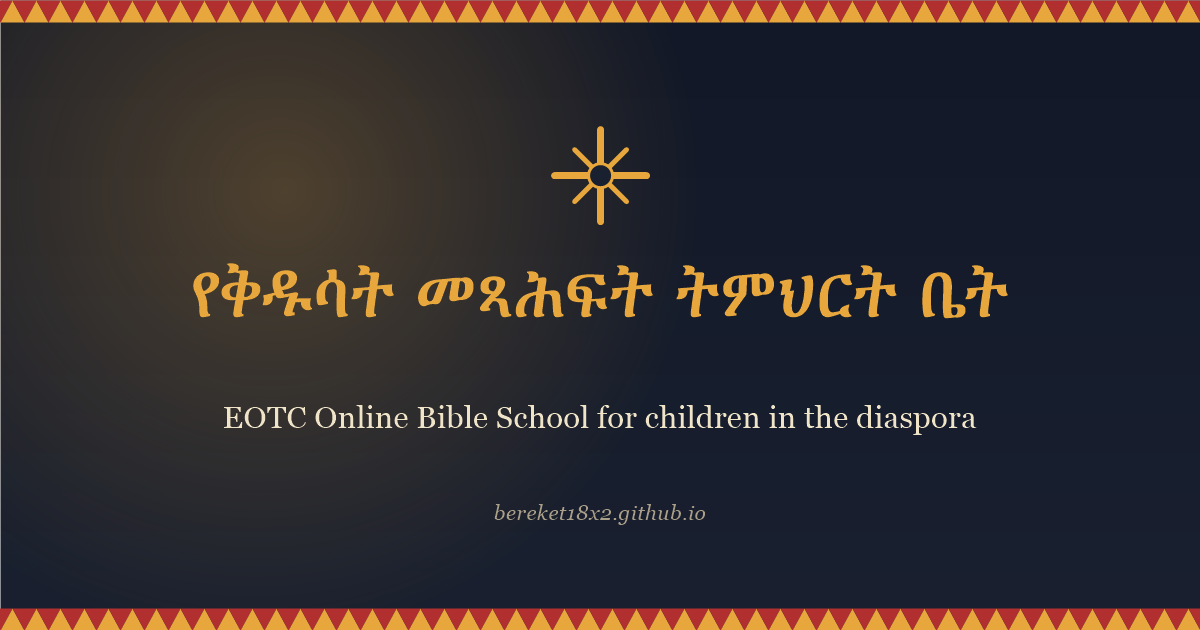
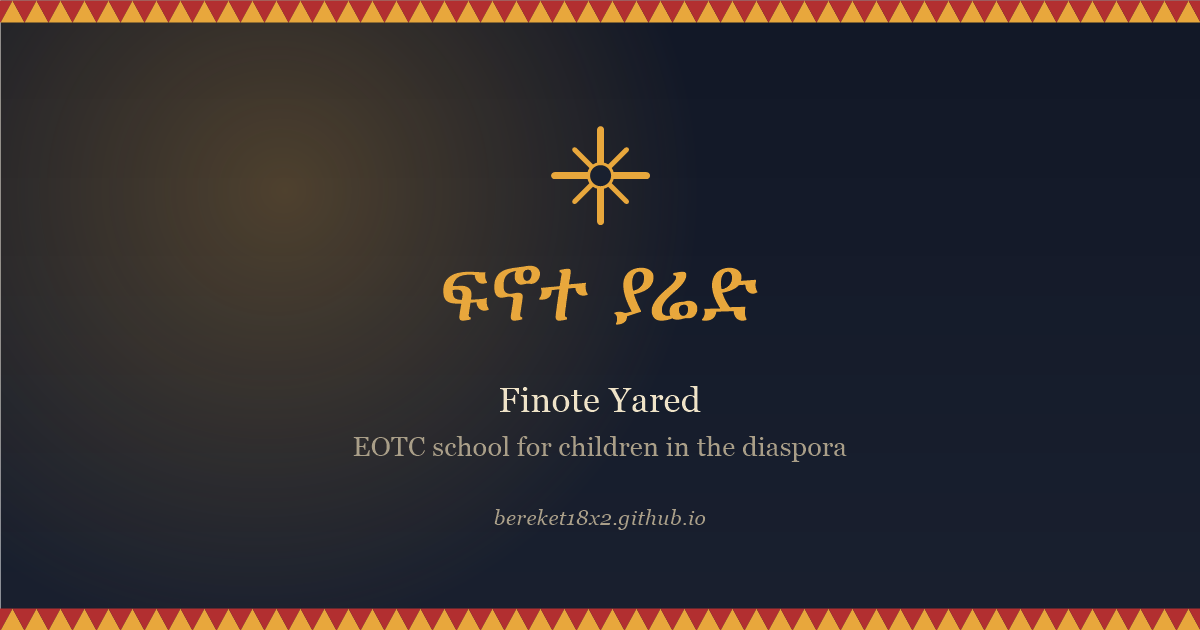
Name the school ፍኖተ ያሬድ, not by its Bible track
የቅዱሳት መጻሕፍት ትምህርት ቤት names one of two tracks. Using it as the school
name erased the Zema school from every title, nav brand, footer and
share card. The school is ፍኖተ ያሬድ — Finote Yared, the path of Yared —
which is also why the Zema track belongs under it rather than beside it.

- CLAUDE.md gains a Naming section: ፍ not ፊ, never ፊኖተ, and the track
  name is not the school name. Also records why the GitHub repo is
  bereket18x2.github.io rather than finote-yared (a user-page repo must
  carry that exact name to serve from the root URL), and corrects the
  Live/Repo lines, which still pointed at a /finote-yared/ path that 404s.
- 33 occurrences renamed across 11 files. The replace was safe because
  the school name always carries ቤት and the Bible-track label never
  does, so TRACKS.bible.am and the homepage track panel are untouched.
- English strings the Amharic pass could not reach: the site no longer
  calls itself an "Online Bible School", which described half of it.
- assets/og.png regenerated — the old name was rendered into the pixels.
  tools/make-og.ps1 now keeps that reproducible instead of ad hoc.
- CLAUDE.md records the tools/ npm exception and that the consent
  mechanism has not been legally reviewed and must be before launch.
- .gitignore excludes tools/node_modules and any service account key,
  which grants full read/write past the security rules.

Changed region(s): [[0.1542, 0.4222, 0.8633, 0.5127], [0.185, 0.6032, 0.8325, 0.7238], [0.4008, 0.7841, 0.5858, 0.8444]]

diff --git a/index.html b/index.html
@@ -3,8 +3,8 @@
 <head>
 <meta charset="utf-8">
 <meta name="viewport" content="width=device-width, initial-scale=1">
-<title>የቅዱሳት መጻሕፍት ትምህርት ቤት — EOTC Online Bible School</title>
-<meta name="description" content="Amharic-language Orthodox Tewahedo Bible school for children in the diaspora. Video lessons, quizzes, and study tracking.">
+<title>ፍኖተ ያሬድ · Finote Yared — EOTC school for children in the diaspora</title>
+<meta name="description" content="Amharic-language Ethiopian Orthodox Tewahedo school for children in the diaspora. Two tracks — Bible study and Zema chant — with video lessons, quizzes, and study tracking.">
 <script>
   try {
     var t = localStorage.getItem('eotc.theme');
@@ -18,15 +18,15 @@
 <link rel="stylesheet" href="assets/css/style.css">
 <link rel="icon" type="image/svg+xml" href="assets/favicon.svg">
 <link rel="shortcut icon" href="assets/favicon.svg">
-<meta property="og:title" content="የቅዱሳት መጻሕፍት ትምህርት ቤት — EOTC Online Bible School">
-<meta property="og:description" content="Amharic-language Orthodox Tewahedo Bible school for children in the diaspora. Video lessons, quizzes, and study tracking.">
+<meta property="og:title" content="ፍኖተ ያሬድ · Finote Yared — EOTC school for children in the diaspora">
+<meta property="og:description" content="Amharic-language Ethiopian Orthodox Tewahedo school for children in the diaspora. Two tracks — Bible study and Zema chant — with video lessons, quizzes, and study tracking.">
 <meta property="og:image" content="https://bereket18x2.github.io/assets/og.png">
 <meta property="og:url" content="https://bereket18x2.github.io/">
 <meta property="og:type" content="website">
 <meta property="og:locale" content="am_ET">
 <meta name="twitter:card" content="summary_large_image">
-<meta name="twitter:title" content="የቅዱሳት መጻሕፍት ትምህርት ቤት — EOTC Online Bible School">
-<meta name="twitter:description" content="Amharic-language Orthodox Tewahedo Bible school for children in the diaspora. Video lessons, quizzes, and study tracking.">
+<meta name="twitter:title" content="ፍኖተ ያሬድ · Finote Yared — EOTC school for children in the diaspora">
+<meta name="twitter:description" content="Amharic-language Ethiopian Orthodox Tewahedo school for children in the diaspora. Two tracks — Bible study and Zema chant — with video lessons, quizzes, and study tracking.">
 <meta name="twitter:image" content="https://bereket18x2.github.io/assets/og.png">
 <script type="importmap">
 {
@@ -52,7 +52,7 @@
       <svg width="22" height="22" viewBox="0 0 24 24" fill="none" stroke="currentColor" stroke-width="1.6" stroke-linecap="round">
         <path d="M12 2v20M2 12h20M7 7l10 10M17 7L7 17"/><circle cx="12" cy="12" r="3.2"/>
       </svg>
-      የቅዱሳት መጻሕፍት ትምህርት ቤት
+      ፍኖተ ያሬድ
     </a>
     <div class="nav-links">
       <a href="index.html" aria-current="page" data-am="መነሻ" data-en="Home">መነሻ</a>
@@ -244,7 +244,7 @@
 <div class="harag harag--thin"></div>
 <footer class="footer">
   <div class="shell between">
-    <span>የቅዱሳት መጻሕፍት ትምህርት ቤት · TewahedoDevs</span>
+    <span>ፍኖተ ያሬድ · TewahedoDevs</span>
     <span class="small" data-am="ለጥያቄ፡ info@example.org" data-en="Questions: info@example.org">ለጥያቄ፡ info@example.org</span>
   </div>
 </footer>

diff --git a/billing.html b/billing.html
@@ -3,7 +3,7 @@
 <head>
 <meta charset="utf-8">
 <meta name="viewport" content="width=device-width, initial-scale=1">
-<title>ክፍያ — የቅዱሳት መጻሕፍት ትምህርት ቤት</title>
+<title>ክፍያ — ፍኖተ ያሬድ</title>
 <script>
   try {
     var t = localStorage.getItem('eotc.theme');
@@ -16,14 +16,14 @@
 <link rel="stylesheet" href="assets/css/style.css">
 <link rel="icon" type="image/svg+xml" href="assets/favicon.svg">
 <link rel="shortcut icon" href="assets/favicon.svg">
-<meta property="og:title" content="ክፍያ — የቅዱሳት መጻሕፍት ትምህርት ቤት">
+<meta property="og:title" content="ክፍያ — ፍኖተ ያሬድ">
 <meta property="og:description" content="ወርኃዊ ክፍያ በVisa፣ Mastercard እና American Express — ደህንነቱ በተጠበቀ በStripe አማካኝነት።">
 <meta property="og:image" content="https://bereket18x2.github.io/assets/og.png">
 <meta property="og:url" content="https://bereket18x2.github.io/billing.html">
 <meta property="og:type" content="website">
 <meta property="og:locale" content="am_ET">
 <meta name="twitter:card" content="summary_large_image">
-<meta name="twitter:title" content="ክፍያ — የቅዱሳት መጻሕፍት ትምህርት ቤት">
+<meta name="twitter:title" content="ክፍያ — ፍኖተ ያሬድ">
 <meta name="twitter:description" content="ወርኃዊ ክፍያ በVisa፣ Mastercard እና American Express — ደህንነቱ በተጠበቀ በStripe አማካኝነት።">
 <meta name="twitter:image" content="https://bereket18x2.github.io/assets/og.png">
 <script type="importmap">
@@ -49,7 +49,7 @@
       <svg width="22" height="22" viewBox="0 0 24 24" fill="none" stroke="currentColor" stroke-width="1.6" stroke-linecap="round">
         <path d="M12 2v20M2 12h20M7 7l10 10M17 7L7 17"/><circle cx="12" cy="12" r="3.2"/>
       </svg>
-      የቅዱሳት መጻሕፍት ትምህርት ቤት
+      ፍኖተ ያሬድ
     </a>
     <div class="nav-links">
       <a href="dashboard.html">ትምህርቶች</a>
@@ -253,7 +253,7 @@
 <div class="harag harag--thin"></div>
 <footer class="footer">
   <div class="shell between">
-    <span>የቅዱሳት መጻሕፍት ትምህርት ቤት · TewahedoDevs</span>
+    <span>ፍኖተ ያሬድ · TewahedoDevs</span>
     <span class="small">ለጥያቄ፡ info@example.org</span>
   </div>
 </footer>

diff --git a/register.html b/register.html
@@ -3,7 +3,7 @@
 <head>
 <meta charset="utf-8">
 <meta name="viewport" content="width=device-width, initial-scale=1">
-<title>ምዝገባ — የቅዱሳት መጻሕፍት ትምህርት ቤት</title>
+<title>ምዝገባ — ፍኖተ ያሬድ</title>
 <script>
   try {
     var t = localStorage.getItem('eotc.theme');
@@ -16,14 +16,14 @@
 <link rel="stylesheet" href="assets/css/style.css">
 <link rel="icon" type="image/svg+xml" href="assets/favicon.svg">
 <link rel="shortcut icon" href="assets/favicon.svg">
-<meta property="og:title" content="ምዝገባ — የቅዱሳት መጻሕፍት ትምህርት ቤት">
+<meta property="og:title" content="ምዝገባ — ፍኖተ ያሬድ">
 <meta property="og:description" content="ወላጅ መለያ ይክፈታሉ፤ የተማሪው መረጃ በዚሁ መለያ ሥር ይመዘገባል። የቅዱሳት መጻሕፍት ትምህርት ወይም የዜማ ትምህርት ቤት።">
 <meta property="og:image" content="https://bereket18x2.github.io/assets/og.png">
 <meta property="og:url" content="https://bereket18x2.github.io/register.html">
 <meta property="og:type" content="website">
 <meta property="og:locale" content="am_ET">
 <meta name="twitter:card" content="summary_large_image">
-<meta name="twitter:title" content="ምዝገባ — የቅዱሳት መጻሕፍት ትምህርት ቤት">
+<meta name="twitter:title" content="ምዝገባ — ፍኖተ ያሬድ">
 <meta name="twitter:description" content="ወላጅ መለያ ይክፈታሉ፤ የተማሪው መረጃ በዚሁ መለያ ሥር ይመዘገባል።">
 <meta name="twitter:image" content="https://bereket18x2.github.io/assets/og.png">
 <script type="importmap">
@@ -49,7 +49,7 @@
       <svg width="22" height="22" viewBox="0 0 24 24" fill="none" stroke="currentColor" stroke-width="1.6" stroke-linecap="round">
         <path d="M12 2v20M2 12h20M7 7l10 10M17 7L7 17"/><circle cx="12" cy="12" r="3.2"/>
       </svg>
-      የቅዱሳት መጻሕፍት ትምህርት ቤት
+      ፍኖተ ያሬድ
     </a>
     <div class="nav-links">
       <a href="index.html#signin" data-am="አስቀድመው ተመዝግበዋል? ግባ" data-en="Already registered? Sign in">አስቀድመው ተመዝግበዋል? ግባ</a>

diff --git a/dashboard.html b/dashboard.html
@@ -3,7 +3,7 @@
 <head>
 <meta charset="utf-8">
 <meta name="viewport" content="width=device-width, initial-scale=1">
-<title>ትምህርቶች — የቅዱሳት መጻሕፍት ትምህርት ቤት</title>
+<title>ትምህርቶች — ፍኖተ ያሬድ</title>
 <script>
   try {
     var t = localStorage.getItem('eotc.theme');
@@ -16,14 +16,14 @@
 <link rel="stylesheet" href="assets/css/style.css">
 <link rel="icon" type="image/svg+xml" href="assets/favicon.svg">
 <link rel="shortcut icon" href="assets/favicon.svg">
-<meta property="og:title" content="ትምህርቶች — የቅዱሳት መጻሕፍት ትምህርት ቤት">
+<meta property="og:title" content="ትምህርቶች — ፍኖተ ያሬድ">
 <meta property="og:description" content="የቪዲዮ ትምህርቶች፣ ጥያቄዎችና የጥናት ሰዓት ክትትል ለተማሪዎች።">
 <meta property="og:image" content="https://bereket18x2.github.io/assets/og.png">
 <meta property="og:url" content="https://bereket18x2.github.io/dashboard.html">
 <meta property="og:type" content="website">
 <meta property="og:locale" content="am_ET">
 <meta name="twitter:card" content="summary_large_image">
-<meta name="twitter:title" content="ትምህርቶች — የቅዱሳት መጻሕፍት ትምህርት ቤት">
+<meta name="twitter:title" content="ትምህርቶች — ፍኖተ ያሬድ">
 <meta name="twitter:description" content="የቪዲዮ ትምህርቶች፣ ጥያቄዎችና የጥናት ሰዓት ክትትል ለተማሪዎች።">
 <meta name="twitter:image" content="https://bereket18x2.github.io/assets/og.png">
 <script type="importmap">
@@ -49,7 +49,7 @@
       <svg width="22" height="22" viewBox="0 0 24 24" fill="none" stroke="currentColor" stroke-width="1.6" stroke-linecap="round">
         <path d="M12 2v20M2 12h20M7 7l10 10M17 7L7 17"/><circle cx="12" cy="12" r="3.2"/>
       </svg>
-      የቅዱሳት መጻሕፍት ትምህርት ቤት
+      ፍኖተ ያሬድ
     </a>
     <div class="nav-links">
       <a href="dashboard.html" aria-current="page">ትምህርቶች</a>

diff --git a/admin.html b/admin.html
@@ -3,7 +3,7 @@
 <head>
 <meta charset="utf-8">
 <meta name="viewport" content="width=device-width, initial-scale=1">
-<title>አስተዳደር — የቅዱሳት መጻሕፍት ትምህርት ቤት</title>
+<title>አስተዳደር — ፍኖተ ያሬድ</title>
 <script>
   try {
     var t = localStorage.getItem('eotc.theme');
@@ -16,14 +16,14 @@
 <link rel="stylesheet" href="assets/css/style.css">
 <link rel="icon" type="image/svg+xml" href="assets/favicon.svg">
 <link rel="shortcut icon" href="assets/favicon.svg">
-<meta property="og:title" content="አስተዳደር — የቅዱሳት መጻሕፍት ትምህርት ቤት">
+<meta property="og:title" content="አስተዳደር — ፍኖተ ያሬድ">
 <meta property="og:description" content="የተማሪዎች ሪፖርት፡ የጥናት ሰዓት፣ ውጤትና እንቅስቃሴ።">
 <meta property="og:image" content="https://bereket18x2.github.io/assets/og.png">
 <meta property="og:url" content="https://bereket18x2.github.io/admin.html">
 <meta property="og:type" content="website">
 <meta property="og:locale" content="am_ET">
 <meta name="twitter:card" content="summary_large_image">
-<meta name="twitter:title" content="አስተዳደር — የቅዱሳት መጻሕፍት ትምህርት ቤት">
+<meta name="twitter:title" content="አስተዳደር — ፍኖተ ያሬድ">
 <meta name="twitter:description" content="የተማሪዎች ሪፖርት፡ የጥናት ሰዓት፣ ውጤትና እንቅስቃሴ።">
 <meta name="twitter:image" content="https://bereket18x2.github.io/assets/og.png">
 <script type="importmap">
@@ -49,7 +49,7 @@
       <svg width="22" height="22" viewBox="0 0 24 24" fill="none" stroke="currentColor" stroke-width="1.6" stroke-linecap="round">
         <path d="M12 2v20M2 12h20M7 7l10 10M17 7L7 17"/><circle cx="12" cy="12" r="3.2"/>
       </svg>
-      የቅዱሳት መጻሕፍት ትምህርት ቤት
+      ፍኖተ ያሬድ
     </a>
     <div class="nav-links">
       <a href="dashboard.html">ትምህርቶች</a>

diff --git a/lesson.html b/lesson.html
@@ -3,7 +3,7 @@
 <head>
 <meta charset="utf-8">
 <meta name="viewport" content="width=device-width, initial-scale=1">
-<title>ትምህርት — የቅዱሳት መጻሕፍት ትምህርት ቤት</title>
+<title>ትምህርት — ፍኖተ ያሬድ</title>
 <script>
   // before the stylesheet, so the page never paints the wrong theme first
   try {
@@ -17,14 +17,14 @@
 <link rel="stylesheet" href="assets/css/style.css">
 <link rel="icon" type="image/svg+xml" href="assets/favicon.svg">
 <link rel="shortcut icon" href="assets/favicon.svg">
-<meta property="og:title" content="ትምህርት — የቅዱሳት መጻሕፍት ትምህርት ቤት">
+<meta property="og:title" content="ትምህርት — ፍኖተ ያሬድ">
 <meta property="og:description" content="ቪዲዮ ትምህርትና ጥያቄዎች ለልጆች በአማርኛ።">
 <meta property="og:image" content="https://bereket18x2.github.io/assets/og.png">
 <meta property="og:url" content="https://bereket18x2.github.io/lesson.html">
 <meta property="og:type" content="website">
 <meta property="og:locale" content="am_ET">
 <meta name="twitter:card" content="summary_large_image">
-<meta name="twitter:title" content="ትምህርት — የቅዱሳት መጻሕፍት ትምህርት ቤት">
+<meta name="twitter:title" content="ትምህርት — ፍኖተ ያሬድ">
 <meta name="twitter:description" content="ቪዲዮ ትምህርትና ጥያቄዎች ለልጆች በአማርኛ።">
 <meta name="twitter:image" content="https://bereket18x2.github.io/assets/og.png">
 <script type="importmap">
@@ -49,7 +49,7 @@
       <svg width="22" height="22" viewBox="0 0 24 24" fill="none" stroke="currentColor" stroke-width="1.6" stroke-linecap="round">
         <path d="M12 2v20M2 12h20M7 7l10 10M17 7L7 17"/><circle cx="12" cy="12" r="3.2"/>
       </svg>
-      የቅዱሳት መጻሕፍት ትምህርት ቤት
+      ፍኖተ ያሬድ
     </a>
     <div class="nav-links">
       <a href="dashboard.html">← ወደ ትምህርቶች</a>

diff --git a/login.html b/login.html
@@ -3,7 +3,7 @@
 <head>
 <meta charset="utf-8">
 <meta name="viewport" content="width=device-width, initial-scale=1">
-<title>ግባ — የቅዱሳት መጻሕፍት ትምህርት ቤት</title>
+<title>ግባ — ፍኖተ ያሬድ</title>
 <meta http-equiv="refresh" content="0; url=index.html#signin">
 <link rel="canonical" href="index.html#signin">
 <script>
@@ -18,14 +18,14 @@
 <link rel="stylesheet" href="assets/css/style.css">
 <link rel="icon" type="image/svg+xml" href="assets/favicon.svg">
 <link rel="shortcut icon" href="assets/favicon.svg">
-<meta property="og:title" content="ግባ — የቅዱሳት መጻሕፍት ትምህርት ቤት">
+<meta property="og:title" content="ግባ — ፍኖተ ያሬድ">
 <meta property="og:description" content="ወደ የተማሪ መለያዎ ይግቡ።">
 <meta property="og:image" content="https://bereket18x2.github.io/assets/og.png">
 <meta property="og:url" content="https://bereket18x2.github.io/login.html">
 <meta property="og:type" content="website">
 <meta property="og:locale" content="am_ET">
 <meta name="twitter:card" content="summary_large_image">
-<meta name="twitter:title" content="ግባ — የቅዱሳት መጻሕፍት ትምህርት ቤት">
+<meta name="twitter:title" content="ግባ — ፍኖተ ያሬድ">
 <meta name="twitter:description" content="ወደ የተማሪ መለያዎ ይግቡ።">
 <meta name="twitter:image" content="https://bereket18x2.github.io/assets/og.png">
 <script type="importmap">

diff --git a/assets/js/config.js b/assets/js/config.js
@@ -32,7 +32,7 @@ export const PRICE_USD = 25;
    directly. One constant, so changing the number or the address is one
    edit rather than a search across every page. */
 export const CHURCH_CONTACT = {
-  name: 'የቅዱሳት መጻሕፍት ትምህርት ቤት · TewahedoDevs',
+  name: 'ፍኖተ ያሬድ · TewahedoDevs',
   email: 'info@example.org',
   phone: '+1 (000) 000-0000'
 };

diff --git a/CLAUDE.md b/CLAUDE.md
@@ -13,14 +13,33 @@ children in the US diaspora. Two tracks:
    ድጓ / ጾመ ድጓ / ምዕራፍ / ዝማሬ / መዋሥዕት / ቅዳሴ, with St. Yared's three modes
    (ግዕዝ, ዕዝል, አራራይ) and አቋቋም.
 
-Live: `https://bereket18x2.github.io/finote-yared/`
-Repo: `Bereket18x2/finote-yared`
+Live: `https://bereket18x2.github.io/`
+Repo: `Bereket18x2/bereket18x2.github.io` (named for the root URL — see Naming)
 Firebase project: `finote-yared` (Spark plan, Firestore in nam5)
+
+## Naming
+
+The school is ፍኖተ ያሬድ — "the path of Yared." Note ፍ, not ፊ.
+English: Finote Yared. Repo, domain, and Firebase project use
+finote-yared / finoteyared. Never write ፊኖተ.
+
+የቅዱሳት መጻሕፍት ትምህርት ቤት names the Bible TRACK only, not the school.
+The school also runs the Zema track. Do not use it as the school name.
+
+One exception to the repo half of that rule: the GitHub repo is
+`bereket18x2.github.io`, because a user-page repo must carry that exact name
+to serve from the root URL. The local directory and the Firebase project are
+both `finote-yared`.
 
 ## Stack — do not change without asking
 
 - Plain HTML + CSS + vanilla JS, native ES modules. **No framework, no bundler,
   no npm, no build step.** It must stay directly deployable to GitHub Pages.
+- **One deliberate exception:** `tools/` may use npm. That rule exists so the
+  SITE stays buildless; a local operator script that never reaches a browser is
+  not the same thing. `tools/export.mjs` uses `firebase-admin`, and
+  `tools/node_modules` is gitignored. Nothing under `tools/` may ever be
+  imported by a page.
 - Firebase SDK from `https://www.gstatic.com/firebasejs/10.12.2/` — pinned version.
 - `.nojekyll` at root. Never delete it.
 - All paths relative (`./assets/...`). The site is served from a subpath, so
@@ -84,6 +103,15 @@ prevent it from the browser. This is not a bug.
 
 Collect the minimum. Every extra field about a minor is a field you must protect. Before
 adding one, say what it is for.
+
+**The consent mechanism has NOT been legally reviewed, and must be before launch.**
+Registration takes a parent's affirmation by checkbox plus a verified parent email.
+The Bible track admits children aged 7–13, which is squarely inside COPPA. A
+self-attested checkbox is generally held insufficient as "verifiable parental
+consent" on its own; the verified email resembles the FTC's "email plus" method but
+was not built to satisfy it. `privacy.html` therefore describes exactly what the code
+does and claims nothing further. Do not add compliance language to it without a
+lawyer. This is the one open item that should gate real families enrolling.
 
 The Firebase API key is public by design and ships in every web app. Security is the
 rules, not the key. Do not "fix" it by hiding it.

diff --git a/README.md b/README.md
@@ -1,6 +1,6 @@
-# የቅዱሳት መጻሕፍት ትምህርት ቤት — EOTC Online Bible School
+# ፍኖተ ያሬድ · Finote Yared
 
-Amharic-language Orthodox Tewahedo Bible school for children in the diaspora.
+Amharic-language Ethiopian Orthodox Tewahedo school for children in the diaspora.
 Video lessons → quizzes → attendance and study-hour tracking for the hosts.
 
 **Phase 1 (this repo):** static site, deployable to GitHub Pages today. Data lives in

diff --git a/docs/PAYMENTS.md b/docs/PAYMENTS.md
@@ -124,7 +124,7 @@ exports.createCheckoutSession = onCall(
           currency: 'usd',
           unit_amount: PRICE_CENTS,
           recurring: { interval: 'month' },
-          product_data: { name: 'የቅዱሳት መጻሕፍት ትምህርት ቤት — ወርኃዊ ደንበኝነት' }
+          product_data: { name: 'ፍኖተ ያሬድ — ወርኃዊ ደንበኝነት' }
         }
       }],
       success_url: `${SITE}/dashboard.html`,
